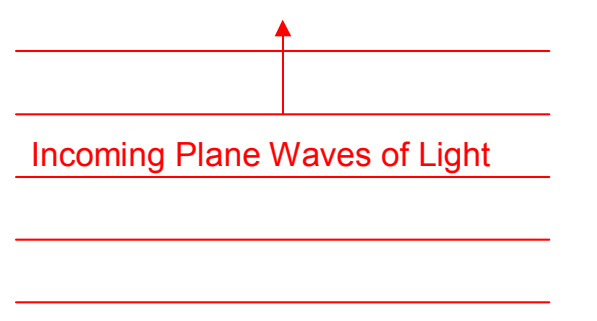
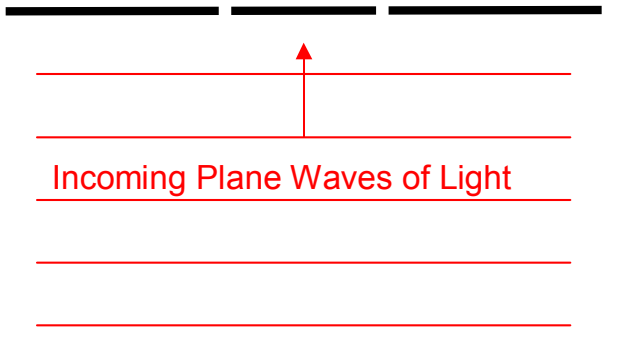
Schnick II: corrections from a second reader and a sweep of every figure crop
A second reader built on OpenCV 5.0.0 compared the 312 pages that were read only by the
local models with their page images. It flagged 13 pages, and 4 held up. A sweep of all 568
figure crops then found 6 crops cut too tight. evidence/README.md describes both checks and
how they were tested.

- Quiz answers p107: the "Selected Match" header and row 3's check mark restored.
- Book p271: the line-of-charge drawing added as fig/p271-1.png; the page proofread.
- Re-cut to take in the whole drawing: problems p43 (point C), book p125 (two crops,
  every field line), p126 (the wire edge to edge), p186 (the antenna's vertical wires),
  p201 (the double-slit mask).
- book.json: pages proofread 124 to 126, read only by the local models 312 to 310.

diff --git a/books/schnick-calculus-based-physics-2/transcription/cbPhysicsIIb24/p271.md b/books/schnick-calculus-based-physics-2/transcription/cbPhysicsIIb24/p271.md
@@ -1,16 +1,18 @@
 ---
 source: cbPhysicsIIb24.pdf, page 271
-reading: Read by two local OCR models, MinerU2.5-Pro-2605-1.2B and GLM-OCR, which agreed on every formula on the page; the text is MinerU2.5-Pro's.
+reading: Proofread by Claude against the page image, starting from the local OCR models' reading (MinerU2.5-Pro-2605-1.2B and GLM-OCR agreed).
 credit: Calculus-Based Physics by Jeffrey Schnick as modified by Michael Stufflebeam. Transcription of Calculus-Based Physics II, its online quizzes and its SAC problems, by Jeffrey W. Schnick (http://www.cbphysics.org/). Licensed under CC BY-SA 2.5 (https://creativecommons.org/licenses/by-sa/2.5/).
 ---
 
-Another example would be a case in which charge is distributed on a line segment of length L extending along the y axis from y = a to  $y = a + L$  with a being a constant and the charge density given by
+Another example would be a case in which charge is distributed on a line segment of length $L$ extending along the $y$ axis from $y = a$ to $y = a + L$ with $a$ being a constant and the charge density given by
 
 $$\lambda = \frac {3 8 \mu \mathrm{C} \cdot \mathrm{m}}{y ^ {2}}$$
 
-In this case the charge on the line is more densely packed in the region closer to the origin. (The smaller y is, the bigger the value of  $\lambda$ , the charge-per-length.)
+![Figure 1](fig/p271-1.png)
 
-The simplest case is the one in which the charge is spread out uniformly over the line on which there is charge. In the case of a uniform linear charge distribution, the charge density is the same everywhere on the line of charge. In such a case, the linear charge density  $\lambda$  is simply a constant. Furthermore, in such a simple case, and only in such a simple case, the charge density  $\lambda$  is just the total amount of charge Q divided by the length L of the line along which that charge is uniformly distributed. For instance, suppose you are told that an amount of charge  $Q = 2.45 \, C$  is uniformly distributed along a thin rod of length  $L = 0.840 \, m$ . Then  $\lambda$  is given by:
+In this case the charge on the line is more densely packed in the region closer to the origin. (The smaller $y$ is, the bigger the value of $\lambda$, the charge-per-length.)
+
+The simplest case is the one in which the charge is spread out uniformly over the line on which there is charge. In the case of a uniform linear charge distribution, the charge density is the same everywhere on the line of charge. In such a case, the linear charge density $\lambda$ is simply a constant. Furthermore, in such a simple case, and only in such a simple case, the charge density $\lambda$ is just the total amount of charge $Q$ divided by the length $L$ of the line along which that charge is uniformly distributed. For instance, suppose you are told that an amount of charge $Q = 2.45\,\mathrm{C}$ is uniformly distributed along a thin rod of length $L = 0.840\,\mathrm{m}$. Then $\lambda$ is given by:
 
 $$\lambda = \frac{Q}{L}$$
 
@@ -20,7 +22,7 @@ $$\lambda = 2.92 \frac{\mathrm{C}}{\mathrm{m}}$$
 
 ## The Electric Field Due to a Continuous Distribution of Charge along a Line
 
-Okay, now we are ready to get down to the nitty-gritty. We are given a continuous distribution of charge along a straight line segment and asked to find the electric field at an empty point in space in the vicinity of the charge distribution. We will consider the case in which both the charge distribution and the empty point in space lie in the x-y plane. The values of the coordinates of the empty point in space are not necessarily specified. We can call them x and y. In solving the problem for a single point in space with unspecified coordinates  $(x,y)$ , our final answer will have the symbols x and y in it, and our result will actually give the answer for an infinite set of points on the x-y plane.
+Okay, now we are ready to get down to the nitty-gritty. We are given a continuous distribution of charge along a straight line segment and asked to find the electric field at an empty point in space in the vicinity of the charge distribution. We will consider the case in which both the charge distribution and the empty point in space lie in the $x$-$y$ plane. The values of the coordinates of the empty point in space are not necessarily specified. We can call them $x$ and $y$. In solving the problem for a single point in space with unspecified coordinates $(x,y)$, our final answer will have the symbols $x$ and $y$ in it, and our result will actually give the answer for an infinite set of points on the $x$-$y$ plane.
 
 The plan for solving such a problem is to find the electric field, due to an infinitesimal segment of the charge, at the one empty point in space. We do that for every infinitesimal segment of the charge, and then add up the results to get the total electric field.
 

diff --git a/books/schnick-calculus-based-physics-2/evidence/README.md b/books/schnick-calculus-based-physics-2/evidence/README.md
@@ -22,8 +22,8 @@ $0.0511 for the 3 prototype pages and $0.5407 for the 35 others, $0.5918 in all)
 
 Pages were then proofread against their page images when they held handwriting (the worked solutions in the quiz
 answers), figure labels copied into the text, answer options shown as images, figures that could not be placed, or
-the problems' fixed glyphs (below). `book.json` counts the pages by how they were read, and each page's front
-matter says how it was read.
+the problems' fixed glyphs (below); so were two pages where the second reader (below) found a drop. `book.json`
+counts the pages by how they were read, and each page's front matter says how it was read.
 
 Where a quiz screenshot cuts a line off at the bottom of the page, the line is completed only when its visible
 part and the line before it settle it; words cut off at the right edge are kept as far as they are visible.
@@ -44,6 +44,37 @@ What the sample found that no repeated cause explains: on 3 of the 12 pages from
 third-read pages, none. Those three pages were then proofread. So a page read only by the local models may hold a
 small error of that kind; about one in four did in this sample.
 
+## A second reader for dropped content
+
+After the first publication, every page read only by the local models and not proofread (312), with the sample's 12
+third-read pages as a control, was compared with its page image by a second reader built on OpenCV 5.0.0. It runs four
+checks:
+- text lines outside every block the reader marked, or a block holding more text than the transcription gives it;
+- drawings with no figure;
+- integral signs and radicals counted against the text;
+- the words of each line, read by OpenCV's DNN text recognizer (CRNN, from opencv_zoo), that do not occur in the text in
+  order.
+
+Before it was trusted, it was shown to stay quiet on three pages proved exact, and to catch drops planted in copies of
+five pages. It also caught one of the sample's three real drops; the other two (one letter, and a mark smaller than a
+letter) are below its reach.
+
+It flagged 13 of the 312 pages, and 4 held up against the page image; none of the controls' 5 flags did. The 4 were
+corrected:
+- a column header and a check mark (quiz answers page 107);
+- a drawing with no figure (book page 271);
+- two figure crops that had cut off part of their drawing (problems page 43, book page 186).
+
+That last kind led to a sweep of every figure crop. For each crop, it looks for page ink connected to the drawing that
+falls outside the crop's box, and for marks near the box that are in no block of text. Before it was trusted, it was
+shown to catch three crops deliberately cut too tight and to stay quiet on the crops of the exact pages.
+
+Of 568 crops it flagged 26, and 6 held up, the two above among them: problems page 43, and book pages 125 (two crops),
+126, 186 and 201. Those were re-cut to take in the whole drawing. The other 20 were:
+- text the transcription carries (7);
+- Blackboard's interface (7);
+- a dashed axis line running on past the crop with nothing on it (6), left as they are.
+
 ## The problems' render
 
 The problems exist only as a 2008 Word file (`SACProblemsIIa14.doc`; the site's PDF link serves a "File Not Found"
@@ -61,7 +92,10 @@ Figures are cropped from the page images at the boxes MinerU2.5-Pro marked. The 
 Blackboard, so not every box is a figure: Blackboard's icons (278 small crops: answer marks and book icons), its
 buttons and empty dropdowns are not reproduced; crops that were text (answer options, small formulas) are
 transcribed as text instead; and one image whose origin could not be settled (a rendered prism, quiz answers page
-104) is left out. The checks and crosses beside "Selected Answer" and "Correct Answer" are kept as text.
+104) is left out. The checks and crosses beside "Selected Answer" and "Correct Answer" are kept as text. Seven
+figures were cut by hand: the six re-cut after the sweep above, and the drawing on book page 271, for which the reader
+drew no box. On book page 186 the antenna runs down beside two paragraphs, so its crop takes in their lines. The
+transcription carries those paragraphs, so in the crop they are painted white and only the drawing is left.
 
 ## Not kept
 

diff --git a/books/schnick-calculus-based-physics-2/transcription/OnLineQuizAnswersIIa1/p107.md b/books/schnick-calculus-based-physics-2/transcription/OnLineQuizAnswersIIa1/p107.md
@@ -1,6 +1,6 @@
 ---
 source: OnLineQuizAnswersIIa1.pdf, page 107
-reading: Read by two local OCR models, MinerU2.5-Pro-2605-1.2B and GLM-OCR, which agreed on every formula on the page; the text is MinerU2.5-Pro's.
+reading: Proofread by Claude against the page image, starting from the local OCR models' reading (MinerU2.5-Pro-2605-1.2B and GLM-OCR agreed).
 credit: Calculus-Based Physics by Jeffrey Schnick as modified by Michael Stufflebeam. Transcription of Calculus-Based Physics II, its online quizzes and its SAC problems, by Jeffrey W. Schnick (http://www.cbphysics.org/). Licensed under CC BY-SA 2.5 (https://creativecommons.org/licenses/by-sa/2.5/).
 ---
 
@@ -20,13 +20,13 @@ An icon representing the lens.
 
 The object.
 
-## Correct Match
+## Correct Match Selected Match
 
 √ F. [None] ✗ A. [None Given]
 
 √ E. [None] ✗ A. [None Given]
 
-B. [None] X A. [None Given]
+√ B. [None] ✗ A. [None Given]
 
 √ A. [None] √ A. [None Given]
 
